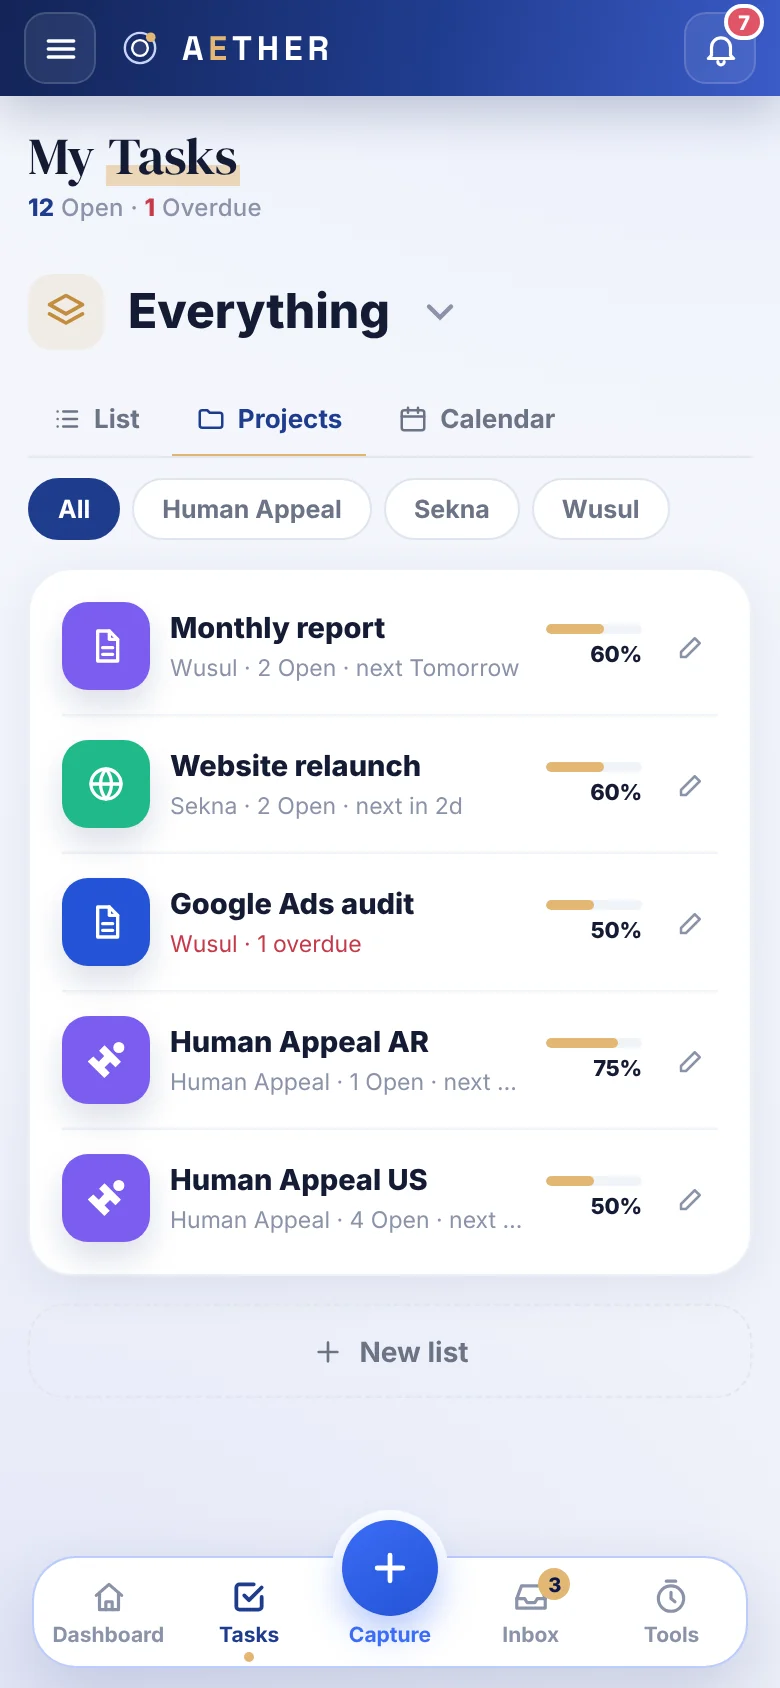
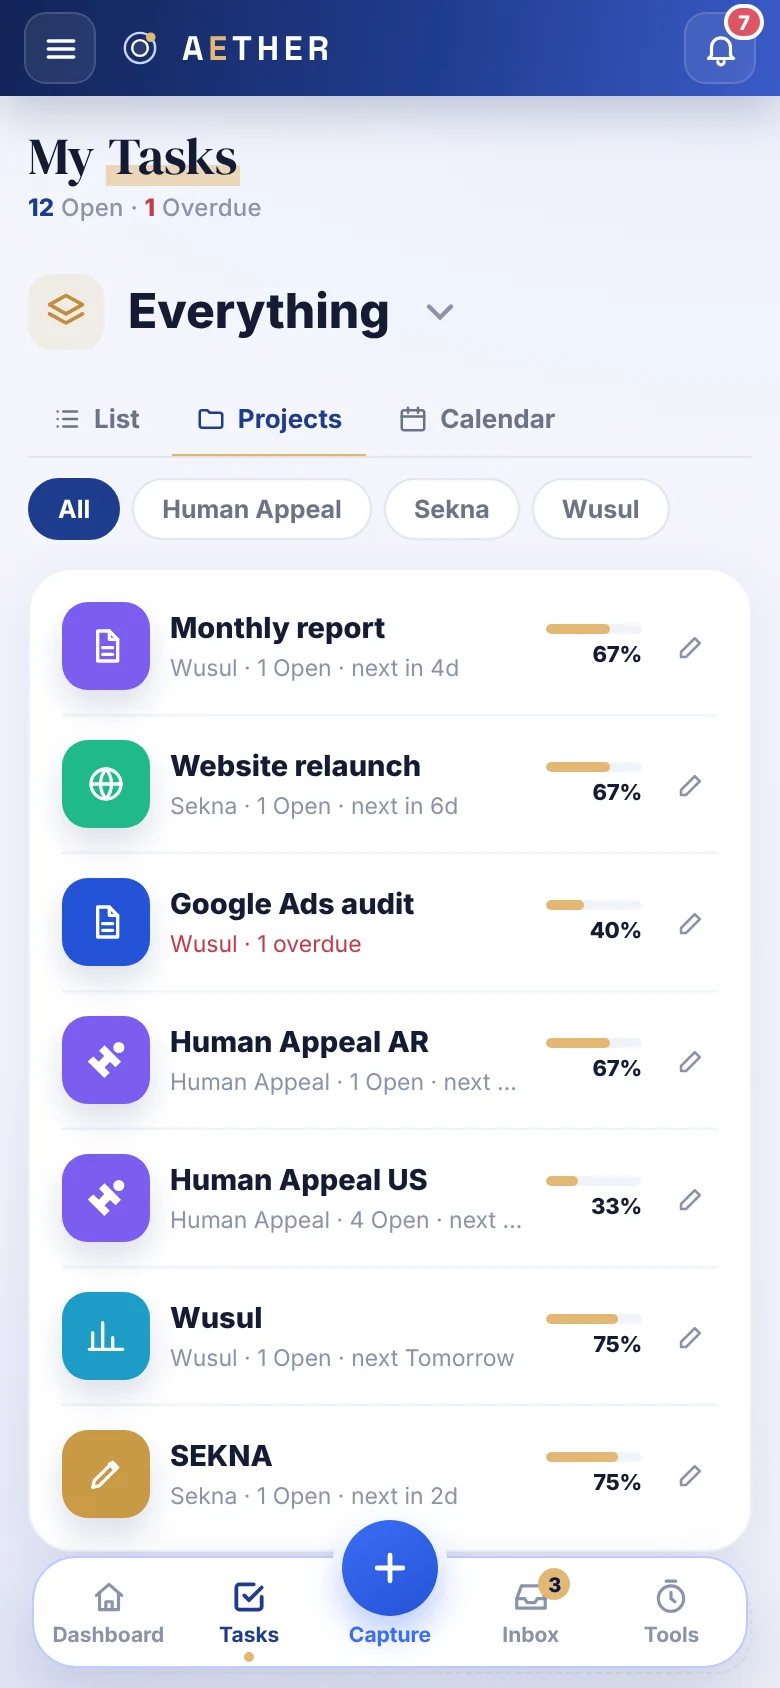
Aether page: Wusul and SEKNA projects on the Projects screen
Claude-Session: https://claude.ai/code/session_01M72xkkmw1fLzaSixMzoXyQ

diff --git a/aether/index.html b/aether/index.html
@@ -767,7 +767,7 @@ var SB='<div class="sb"><span>9:41</span><i><svg viewBox="0 0 18 12"><rect x="0"
   S.forEach(function(x,i){
     var d=document.createElement('div');d.className='rp';
     d.innerHTML='<div class="ed l"></div><div class="ed r"></div><div class="bk"><img src="/aether/logo-white.webp?v=1" alt=""></div><div class="fr"><i class="bt a"></i><i class="bt b"></i><i class="bt c"></i><i class="bt d"></i><div class="scn">'+SB+
-      x[0].map(function(f,k){return '<div class="ly'+(k?'':' on')+'"><img src="/aether/shots/'+f+'.webp?v='+2+'" alt="'+x[1]+'"'+(i>1?' loading="lazy"':'')+'>'+(NAV[f]?'<img class="nvb" src="/get/shots/'+f+'-nav.webp?v='+20+'" alt="" loading="lazy">':'')+'</div>'}).join('')+'<i class="hb"></i><i class="gl"></i></div></div>';
+      x[0].map(function(f,k){return '<div class="ly'+(k?'':' on')+'"><img src="/aether/shots/'+f+'.webp?v='+3+'" alt="'+x[1]+'"'+(i>1?' loading="lazy"':'')+'>'+(NAV[f]?'<img class="nvb" src="/get/shots/'+f+'-nav.webp?v='+20+'" alt="" loading="lazy">':'')+'</div>'}).join('')+'<i class="hb"></i><i class="gl"></i></div></div>';
     ring.appendChild(d);
     dots.appendChild(document.createElement('i'));
   });
